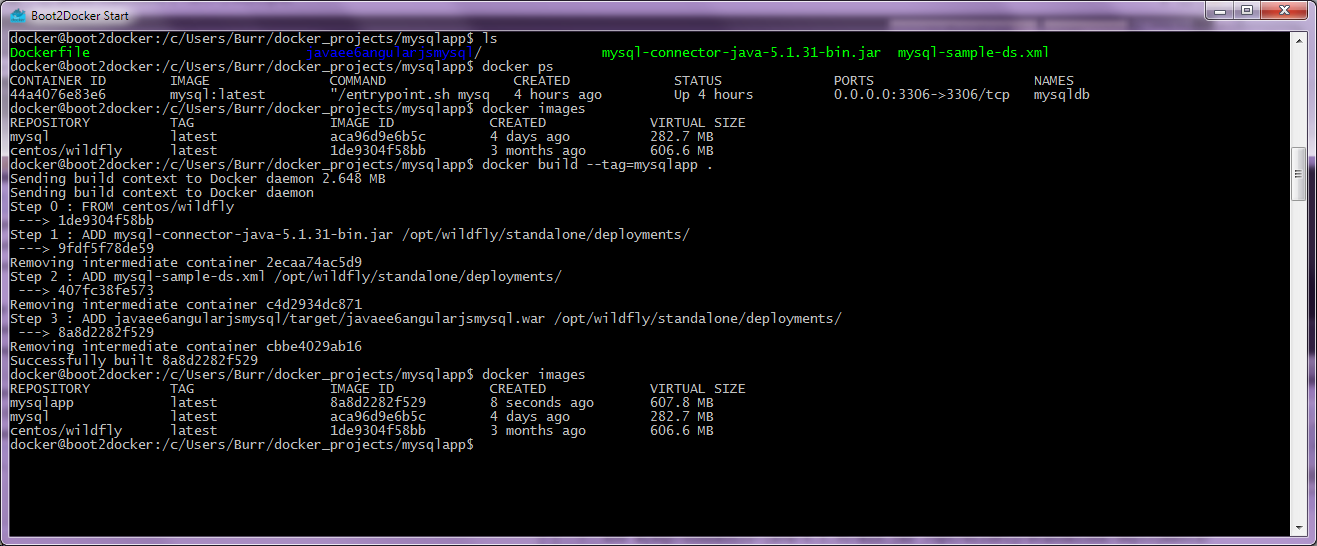
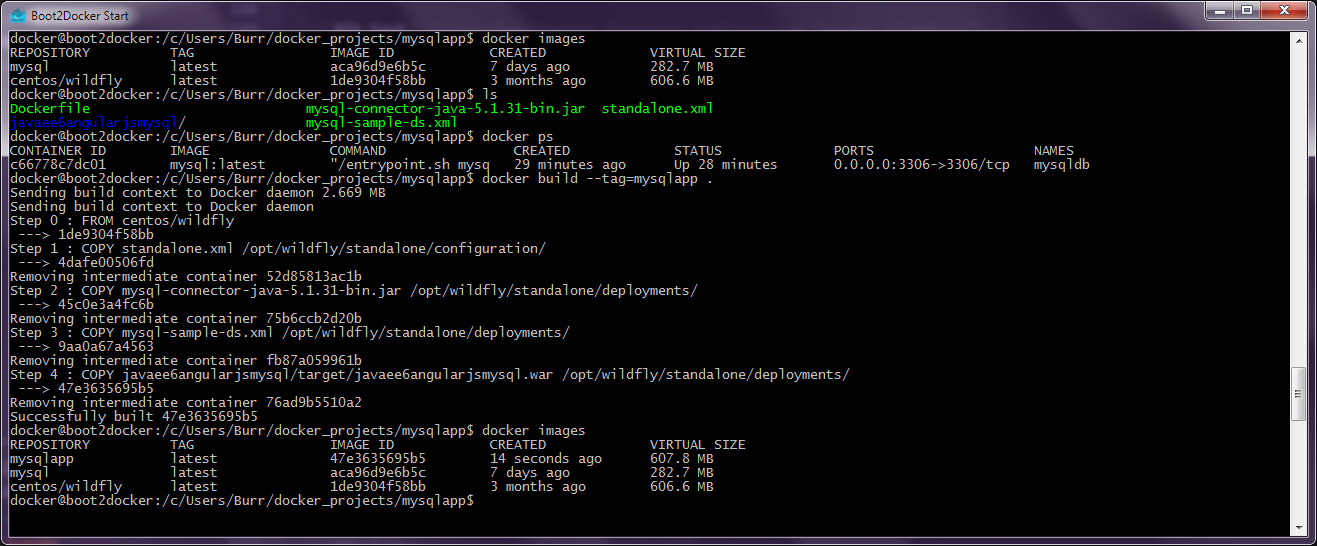
updated after docker build image

Changed region(s): [[0.0, 0.0, 1.0, 1.0], [0.6226, 0.2491, 0.8405, 0.3114], [0.9962, 0.4982, 1.0, 0.5916]]

diff --git a/readme.md b/readme.md
@@ -131,9 +131,12 @@ let's configure the Java EE app to use your MySQL
     ````
     FROM centos/wildfly
 
-    ADD mysql-connector-java-5.1.31-bin.jar /opt/wildfly/standalone/deployments/
-    ADD mysql-sample-ds.xml /opt/wildfly/standalone/deployments/
-    ADD javaee6angularjsmysql/target/javaee6angularjsmysql.war /opt/wildfly/standalone/deployments/
+    COPY standalone.xml /opt/wildfly/standalone/configuration/
+    COPY mysql-connector-java-5.1.31-bin.jar /opt/wildfly/standalone/deployments/
+    COPY mysql-sample-ds.xml /opt/wildfly/standalone/deployments/
+
+    COPY javaee6angularjsmysql/target/javaee6angularjsmysql.war /opt/wildfly/standalone/deployments/
+
     ````
     ![Alt text](/screenshots/mysqlapp_with_Dockerfile.png?raw=true "mysqlapp directory with Dockerfile")
 
@@ -160,7 +163,9 @@ let's configure the Java EE app to use your MySQL
     ![Alt text](/screenshots/after_docker_build.png?raw=true "docker build results")
 
 
-14. `docker run -it -p 8080:8080 mysqlapp`
+14. `docker run -it -p 8080:8080 --link mysqldb:mydatabaseserver mysqlapp`
+
+    > This docker run introduces a new concept --link.  The MySQL container was started with "--name mysqldb" back in Step 3 and the "mydatabaseserver" is referenced in the -ds.xml as an environment variable.
 
     > Then use your browser to interact with the application, register a new Member
 
